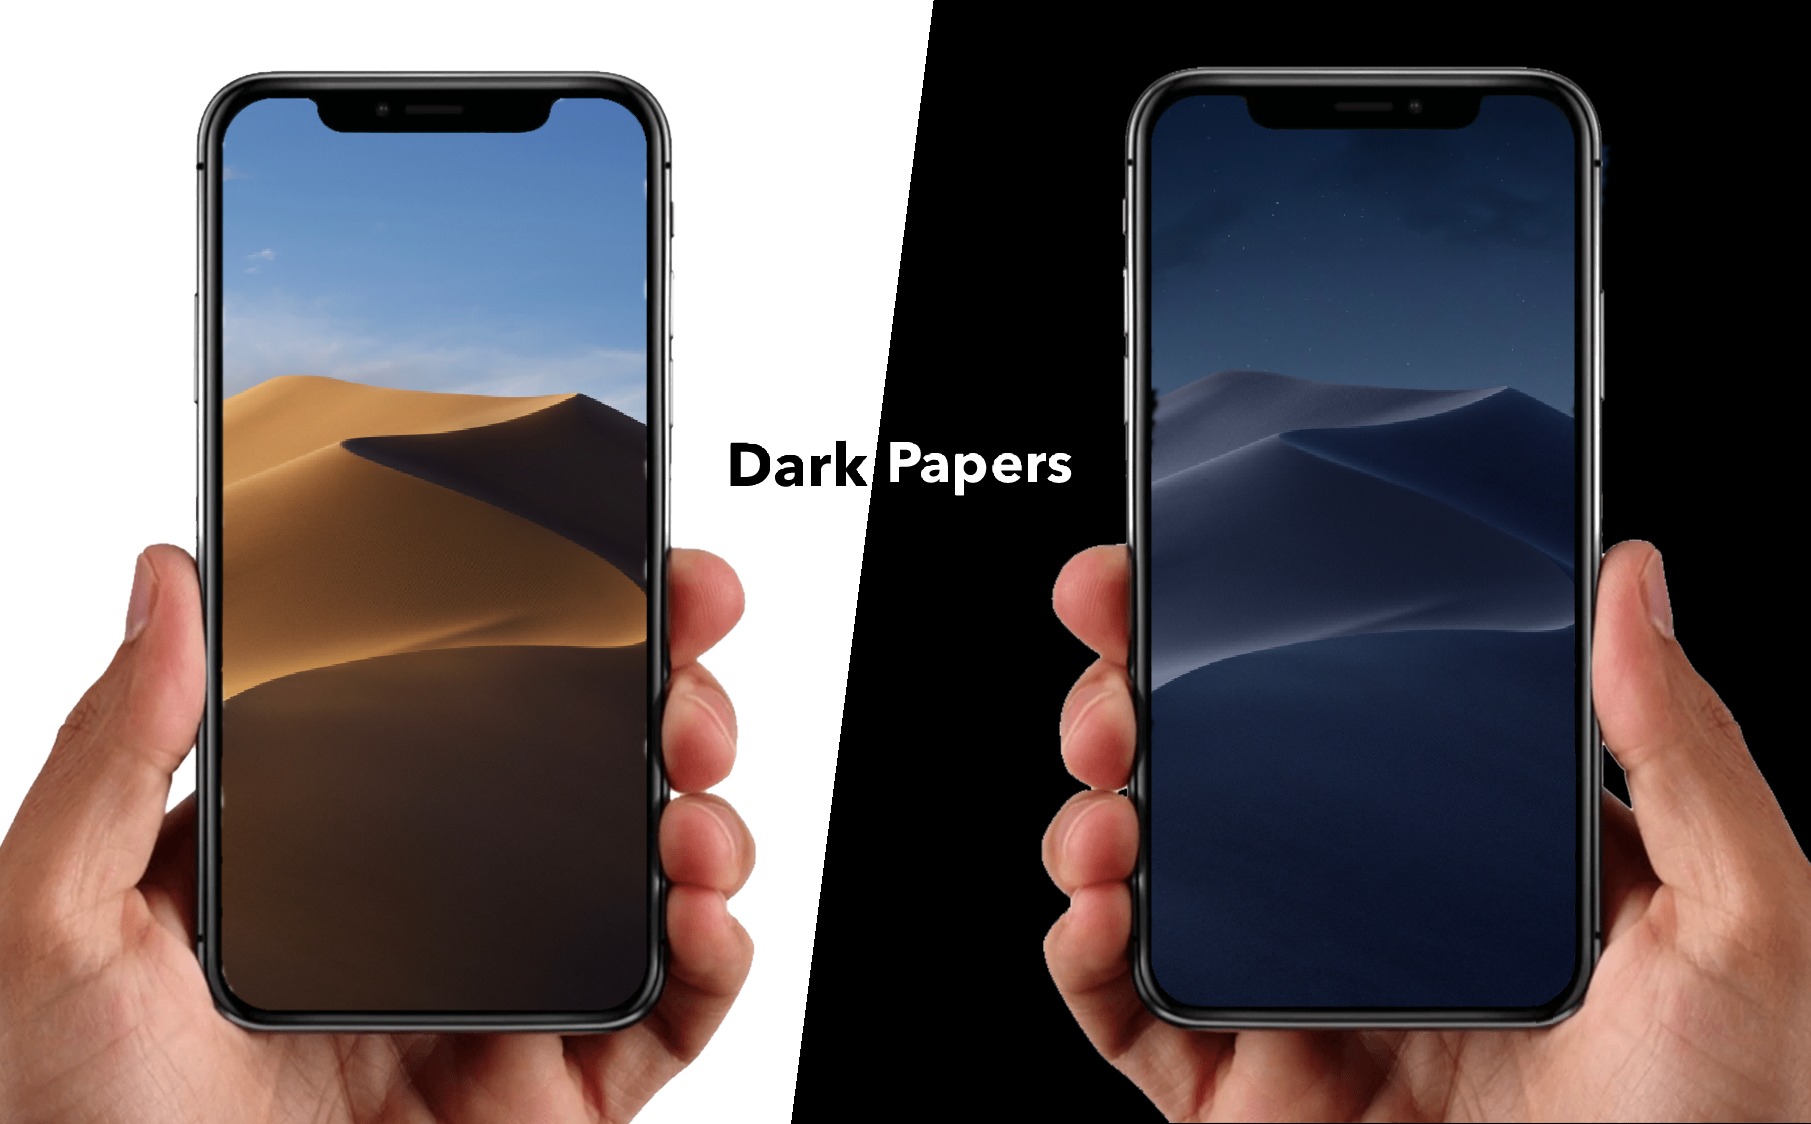
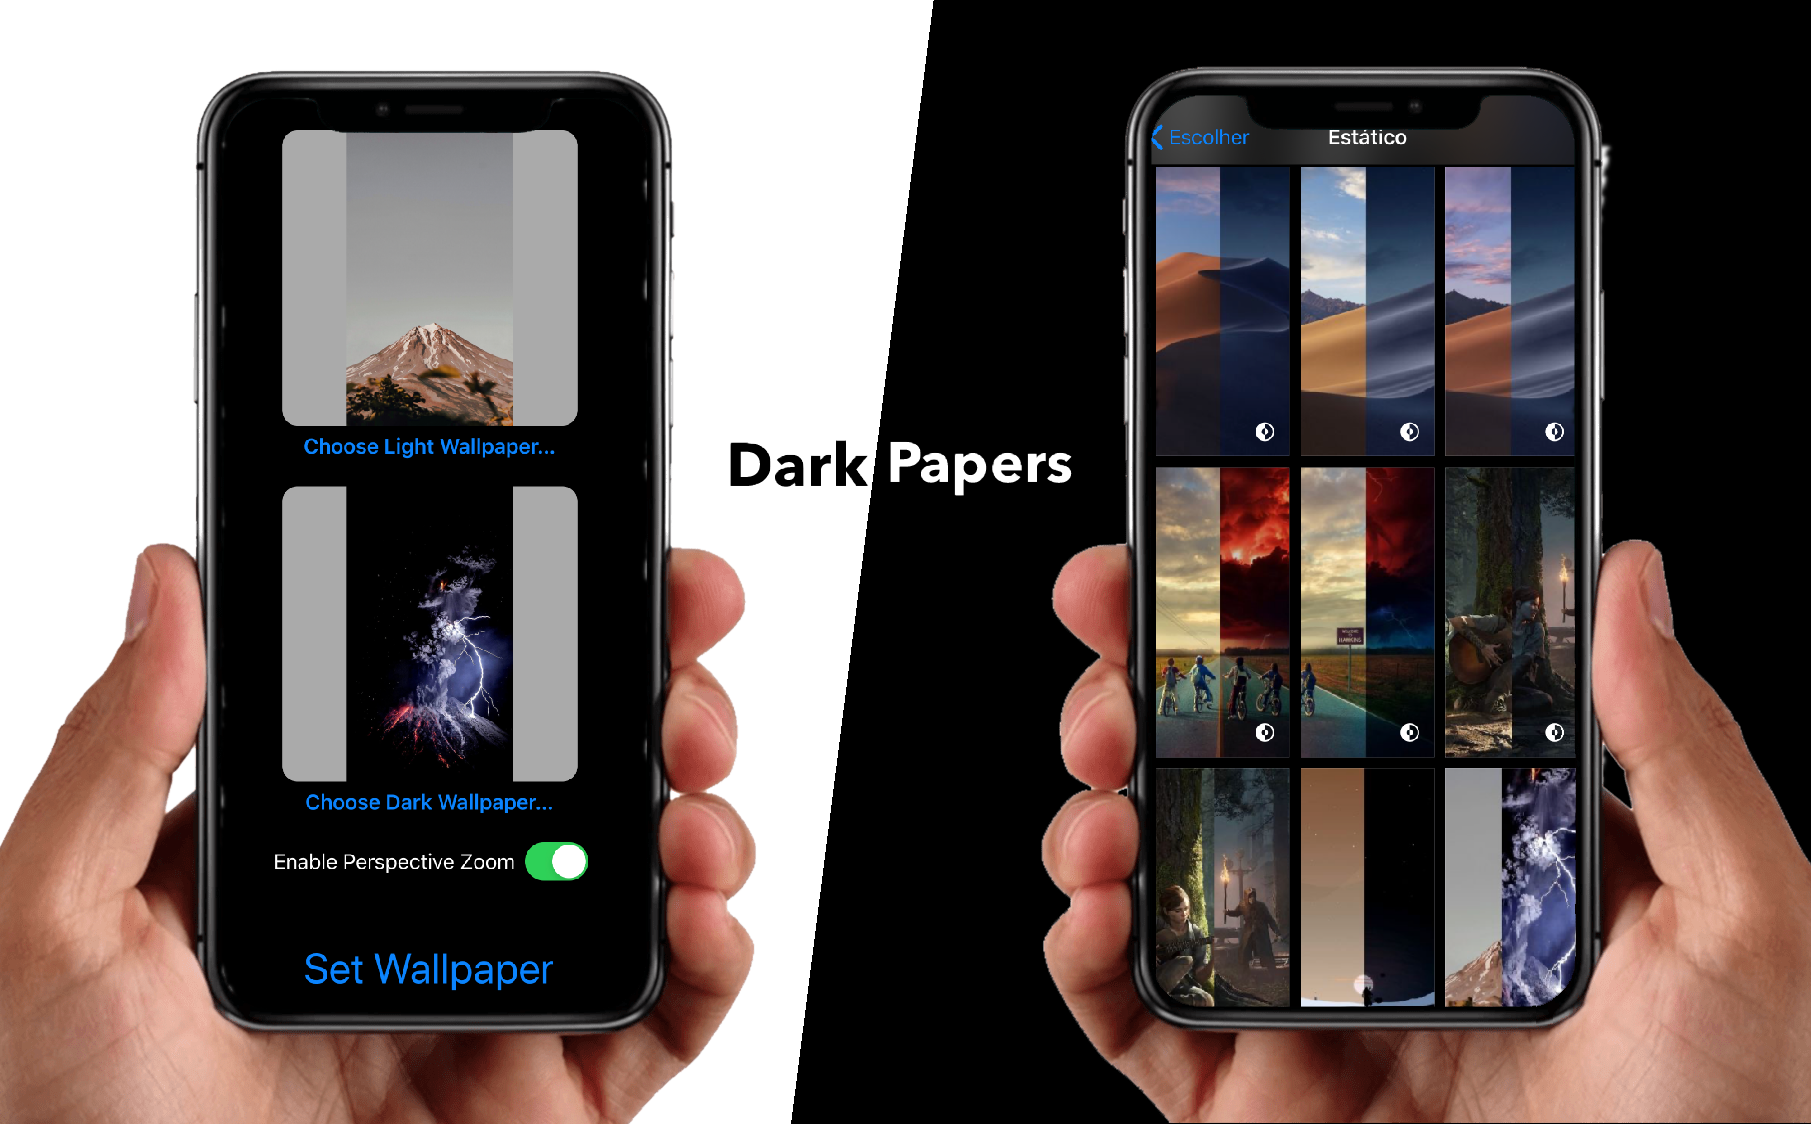
New Content
New screenshots for depictions
Updated index
Updated screenshots
Updated depictions

diff --git a/index.html b/index.html
@@ -135,25 +135,38 @@ Select a package manager to add this repository to it:
 
 <center><img class="imageleft" src="./depictions/com.alexpng.darkpapers/gifs/teaser.gif" width="95%"></center>
 <br>
-	<p>Over 50 OLED friendly and Full HD day and night wallpapers for the native iOS 13 dark mode (appearance aware feature/day and night cycle wallpapers). This package depends on WallpaperLoader.</p>
-<br>
+	<p>DarkPapers is a tweak that adds over 50 OLED friendly and Full HD day/night wallpapers into the iOS 13 native dark mode wallpaper cycle (apperance aware). This tweak also comes with an app to let you manually add your own custom day/night wallpapers for you to use. No setting up is required, simply install the tweak and go to the wallpaper section in the settings app and look in the still wallpapers to see your new dark mode compatible wallpapers. Or, alternatively, go to the DarkPapers app to use your own custom wallpapers. This package depends on WallpaperLoader in order to work, which you can get in the repository:</p>
+<a class="filter" onclick=location.href='https://skitty.xyz'>https://skitty.xyz</a>
+	<br>
 <center><img class="imageleft" src="./depictions/com.alexpng.darkpapers/screenshots/1.png" width="95%"></center>
-<br>
-	<p>The package contains a script so you can manually add your own custom day and night wallpapers into the package. In case you do want to add your own custom wallpapers, head over to /Documents and you’ll find a folder called DarkPapersScript in which you have a tutorial on how to use the script.</p>
-<br>
-<center><img class="imageleft" src="./depictions/com.alexpng.darkpapers/screenshots/2.png" width="95%"></center>
 <br>
 	<p>All wallpapers included in this package are free to use. I do not own any rights above them and the credit goes to the original creators. The only changes made to these wallpapers by me were to tweak the darkness/color in some of them and to modify their original size.</p>
 <br>
+<center><img class="imageleft" src="./depictions/com.alexpng.darkpapers/screenshots/2.png" width="95%"></center>
+<br>
+	<p>This tweak is compatible with iOS 13 and above. The wallpapers included in the tweak are NOT optimized for iPads, only for iPhones. The DarkPapers app is compatible with iPads, so you can upload your own custom day/night wallpapers, but not use the ones that come with this tweak, due to their sizing.</p>
+<br>
 <center><img class="imageleft" src="./depictions/com.alexpng.darkpapers/screenshots/3.png" width="95%"></center>
 <br>
+    <p>Special thanks to skitty for the guide on how to add custom wallpapers into WallpaperLoader, and to MichaelMKenny for the awesome proof of concept app.</p>
+<br>
+    <h3>Other Screenshots:</h3>
+<br>
+<center><img class="imageleft" src="./depictions/com.alexpng.darkpapers/screenshots/4.png" width="95%"></center>
+<br>
+<center><img class="imageleft" src="./depictions/com.alexpng.darkpapers/screenshots/5.png" width="95%"></center>
+<br>
+<center><img class="imageleft" src="./depictions/com.alexpng.darkpapers/screenshots/6.png" width="95%"></center>
+<br>
+<center><img class="imageleft" src="./depictions/com.alexpng.darkpapers/screenshots/7.png" width="95%"></center>
+<br>
 	<h3>Compatibility:</h3>
-<p>Compatible with iOS 13 or later. Not compatible with iPad devices.</p>
+<p>Compatible with iOS 13 or later. Wallpapers from this package are not sized for iPads but iPad users can use the DarkPapers app to use their own custom wallpapers.</p>
    	<h3>Dependencies:</h3>
 <p>WallpaperLoader and mobilesubstrate. You can get WallpaperLoader in the repository:</p>
 <a class="filter" onclick=location.href='https://skitty.xyz'>https://skitty.xyz</a>
   	<h3>Known Issues:</h3>
-<p>When previewing the wallpapers in the native settings app, the wallpapers may sometimes appear zoomed in but they won’t be zoomed in once you apply the wallpaper. A way to trigger this bug is to enable/disable the native dark mode when previewing the wallpapers.
+<p>When previewing the wallpapers in the native settings app, the wallpapers may sometimes appear zoomed in but they won’t be zoomed in once you apply the wallpaper. A way to trigger this bug is to enable/disable the native dark mode when previewing the wallpapers. To fix the bug, simply leave the preview and preview it again.
   	<h3>Price:</h3>
 <p>Free.</p>
    	<h3>Open Source:</h3>

diff --git a/depictions/com.alexpng.darkpapers/index.html b/depictions/com.alexpng.darkpapers/index.html
@@ -32,14 +32,17 @@
 <fieldset style="text-align: justify">
 <div style="text-align: justify">
 
-<p style="text-align: justify">This is a simple package tweak that adds over 50 day and night wallpapers to the stock iOS 13 dark mode (appearance aware) wallpapers. Some are OLED friendly and are in Full HD.</p>
+<p style="text-align: justify">DarkPapers is a tweak that adds over 50 OLED friendly and Full HD day/night wallpapers into the iOS 13 native dark mode wallpaper cycle (apperance aware). This tweak also comes with an app to let you manually add your own custom day/night wallpapers for you to use. No setting up is required, simply install the tweak and go to the wallpaper section in the settings app and look in the still wallpapers to see your new dark mode compatible wallpapers. Or, alternatively, go to the DarkPapers app to use your own custom wallpapers.</p>
 
-<p style="text-align: justify">There’s a script included in this tweak that you can find in /Documents titled as DarkPapersScript. Inside the script folder you’ll find a tutorial on how to manually add your own day and night wallpapers to this package, in case you want to add your own custom wallpapers.</p>
+<p style="text-align: justify">All wallpapers included in this package are free to use. I do not own any rights above them and the credit goes to the original creators. The only changes made to these wallpapers by me were to tweak the darkness/color in some of them and to modify their original size.</p>
+
+<p style="text-align: justify">This tweak is compatible with iOS 13 and above. The wallpapers included in the tweak are NOT optimized for iPads, only for iPhones. The DarkPapers app is compatible with iPads, so you can upload your own custom day/night wallpapers, but not use the ones that come with this tweak, due to their sizing.</p>
+
+<p style="text-align: justify">Special thanks to skitty for the guide on how to add custom wallpapers into WallpaperLoader, and to MichaelMKenny for the awesome proof of concept app.</p>
 
 <p style="text-align: justify">This tweak packages depends on WallpaperLoader in order to work. You can find the tweak in Skittyblock’s repository at:</p>
 <a href=“https://skitty.xyz”>https://skitty.xyz</a>
 
-<p style="text-align: justify">All wallpapers included in this package are free to use. I do not own any rights above them and the credit goes to the original creators. The only changes made to these wallpapers by me were to tweak the darkness/color in some of them and to modify their original size.</p>
 </div>
 
 <div>
@@ -47,7 +50,7 @@
 <label>
 <h2 style="font-weight: bold"> Compatibility:</h2>
 <p> </p>
-<p>Only compatible with iOS 13 or later. Not compatible with iPad devices.</p>
+<p>Only compatible with iOS 13 or later. Wallpapers from this package are not sized for iPads but iPad users can use the DarkPapers app to use their own custom wallpapers.</p>
 </label>
 </div>
 </div>
@@ -57,7 +60,7 @@
 <label>
 <h2 style="font-weight: bold"> Known Issues:</h2>
 <p> </p>
-<p>When previewing the wallpapers in the native settings app, the wallpapers may sometimes appear zoomed in but they won’t be zoomed in once you apply the wallpaper. A way to trigger this bug is to enable/disable the native dark mode when previewing the wallpapers.</p>
+<p>When previewing the wallpapers in the native settings app, the wallpapers may sometimes appear zoomed in but they won’t be zoomed in once you apply the wallpaper. A way to trigger this bug is to enable/disable the native dark mode when previewing the wallpapers. To fix the bug, simply leave the preview and preview it again.</p>
 </label>
 </div>
 </div>

diff --git a/depictions/com.alexpng.darkpapers/screenshots.html b/depictions/com.alexpng.darkpapers/screenshots.html
@@ -18,6 +18,10 @@
 <div>
 <center>
 
+<img src="./gifs/teaser.gif" width="100%">
+
+<br>
+<br>
 <img src="./screenshots/1.png" width="100%">
 
 <br>
@@ -35,6 +39,14 @@
 <br>
 <br>
 <img src="./screenshots/5.png" width="100%">
+
+<br>
+<br>
+<img src="./screenshots/6.png" width="100%">
+
+<br>
+<br>
+<img src="./screenshots/7.png" width="100%">
 
 </center>
 </div>
